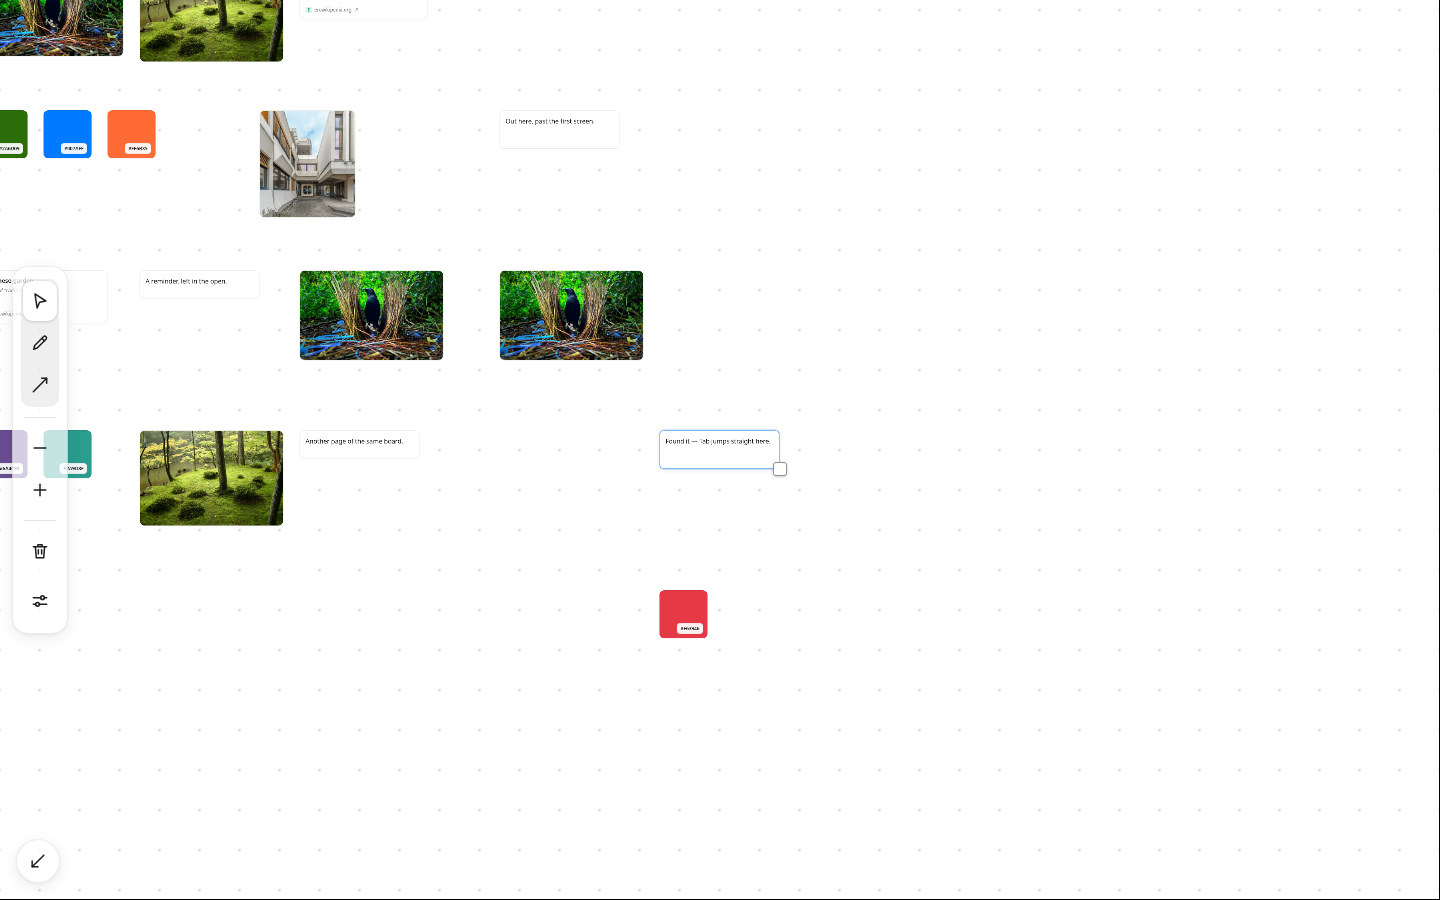
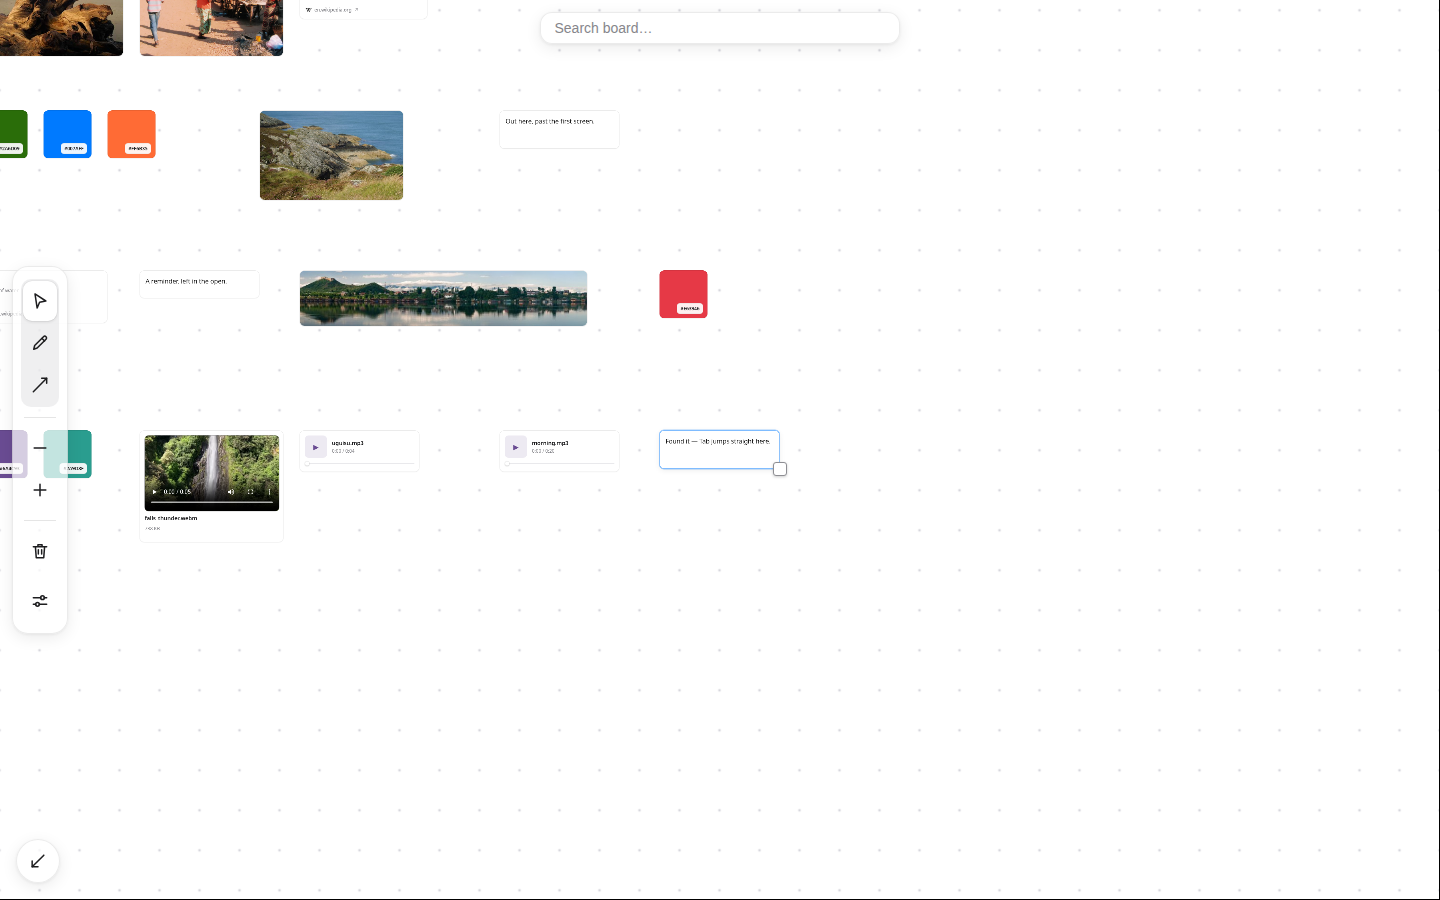
Redo App Store screenshots: distinct assets, video and audio in every shot
- Shots 02-05 use no welcome-board assets and no asset repeats
  between shots: each photo, video and audio file appears once.
- Video and audio are now in every shot, not just welcome:
  02 birds video + shrike song, 03 waterfall video + robin song,
  04 Keila waterfall video + dove audio, 05 Thunder Creek video
  + two audio cards at zoom 0.4.
- Fixes found on inspection before replacing: a coast photo
  taken with intentional camera movement (blurry swirl) was
  replaced with a clear Rugen coast photo; videos are paused
  on a representative frame (birds flock, waterfall) instead
  of a dirt/ground first frame; the annotate board was moved
  down so its pen circle clears the floating search box.
- All shots now show the new floating search box at the top.

diff --git a/screenshots/README.md b/screenshots/README.md
@@ -1,15 +1,16 @@
 # App Store screenshots
 
 Captured from the running app — not mockups. Each file is the full
-app window at 1440×900, PNG, with no mouse cursor in frame.
+app window at 1440×900, PNG, with no mouse cursor in frame. The
+floating search box is visible at the top of every shot.
 
 | File | What it shows |
 | --- | --- |
-| `01-welcome-board.png` | The first-run board: a note, swatches, a link card, a PDF card and a picture, with a connector — every element type at a glance. |
-| `02-mood-board.png` | A mood board: colour swatches, images, link cards, a pen annotation and a connector. |
-| `03-research-board.png` | A research board: notes, a link card, an image, and a grouped cluster (select one, move them all). |
-| `04-sketch-board.png` | Annotating a photo: a pen circle around a real photograph, pen strokes in several colours, swatches and a connector. |
-| `05-find-anything.png` | A large board at zoom 0.4 with one element selected by Tab, centred — the infinite board, and finding an element in it. |
+| `01-welcome-board.png` | The first-run board: a note, swatches, a link card, a PDF card, a picture, an audio card and a video card, with a connector — every element type at a glance. |
+| `02-mood-board.png` | A mood board: autumn and coast photographs, colour swatches, a link card, a birds video and a birdsong audio card. |
+| `03-research-board.png` | A research board: notes, a link card, photographs, a grouped cluster (select one, move them all), a waterfall video and a birdsong audio card. |
+| `04-sketch-board.png` | Annotating a photo: a pen circle around a real photograph, pen strokes in several colours, swatches, a waterfall video and a short audio card. |
+| `05-find-anything.png` | A large board at zoom 0.4 with one element selected by Tab, centred — the infinite board, and finding an element in it. A waterfall video and two audio cards are among the spread-out elements. |
 
 ## For App Store Connect (Mac)
 
@@ -18,8 +19,11 @@ the first screenshot is the one shown first on the listing. No
 captions or device frames are baked in; the shots are the app
 itself, full-bleed.
 
-Photos in these shots are real Wikimedia Commons photographs
-(bowerbird, Kyoto garden, brutalist building), not generated images.
+Photos, videos and audio in these shots are real Wikimedia Commons
+media, not generated images. Shot 01 is the product's own first-run
+board, so it uses the welcome assets. Shots 02–05 use none of those
+assets, and no asset repeats between shots 02–05: each photograph,
+video and audio file appears in exactly one of those four shots.
 
 If you recapture on a Mac, the layout is the same and the text
 renders in SF Pro natively. To recapture: resize the window to
